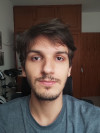
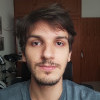
Atualização Prática Introdução HTML e CSS

diff --git a/aulas-praticas/002-introducao-html-css/index.html b/aulas-praticas/002-introducao-html-css/index.html
@@ -3,24 +3,31 @@
     <head>
         <meta charset="UTF-8">
         <title>João Victor Guizi Gerardi</title>
+        <link rel="stylesheet" href="./style.css">
     </head>
     <body>
         <header>
-            <img src="./FotoExameDocuSign.jpeg" alt="Ilustração Rosto João Victor Guizi Gerardi">
-            <h1>João Victor Guizi Gerardi</h1>
+            <img src="./FotoExameDocuSign.jpeg" alt="Ilustração Rosto João Victor Guizi Gerardi" class="photo">
+            <h1 id="title">João Victor Guizi Gerardi</h1>
         </header>
         <section>
             <header>
-                <h2>Posts</h2>
+                <h2 class="subtitle">Posts</h2>
             </header>
-            <article>
-                <h3>Post #1</h3>
-                <img src="./code.jpg" alt="Exemplo de código HTML">
-                <p>
+            <article class="post">
+                <h3 class="post_title">Post #1</h3>
+                <img src="./code.jpg" alt="Exemplo de código HTML" class="post_image">
+                <p class="post_content">
                     Lorem ipsum dolor sit amet, <a href="https://www.linkedin.com/in/joao-victor-guizi-gerardi/" target="_blank">consectetur adipiscing elit.</a> Phasellus imperdiet sit amet nunc et cursus. <a href="mailto:jggerardi@gmail.com">Morbi eu ex aliquam</a>, pellentesque nisi ac, hendrerit dolor. In eget nibh vel leo scelerisque consequat. Donec vestibulum congue faucibus. Quisque lacinia aliquet velit, sed pulvinar mauris eleifend vel. Quisque suscipit libero in ipsum varius pulvinar. Sed vestibulum vestibulum sem. Cras sed tempus tortor. Suspendisse consectetur urna enim, sed aliquet arcu euismod vel. Praesent ex nibh, malesuada a urna non, molestie ornare ligula. Vestibulum ac sem placerat, volutpat orci vel, lacinia erat.
                 </p>
             </article>
         </section>
-        <footer></footer>
+        <footer>
+            <ul>
+                <li> <a href="mailto:jggerardi@gmail.com" target="_blank">jggerardi@gmail.com</a></li>
+                <li> <a href="https://www.linkedin.com/in/joao-victor-guizi-gerardi/" target="_blank">LinkedIn</a> </li>
+                <li> <a href="https://github.com/JoaoVictorGuiziGerardi?tab=overview&from=2021-07-01&to=2021-07-31" target="_blank">GitHub</a> </li>
+            </ul>
+        </footer>
     </body>
 </html>

diff --git a/aulas-praticas/002-introducao-html-css/style.css b/aulas-praticas/002-introducao-html-css/style.css
@@ -1,0 +1,38 @@
+body{
+    background-color:rgba(255, 248, 220, 0.75);
+    font-family: Arial, Helvetica, sans-serif;
+}
+
+#title, .subtitle, .post_title{
+    color:rgba(0, 0, 139, 0.8);
+}
+
+.photo{
+    border: 2.5px solid rgba(0, 0, 139, 0.8);
+    border-radius: 50%;
+}
+
+.post_title{
+    font-size: 16px;
+    font-style: italic;
+    margin: 0;
+    margin-bottom: 15px;
+}
+
+.post_content{
+    margin: 0;
+    margin-bottom: 15px;
+}
+
+.post_image{
+    margin-bottom: 15px;
+    border-radius: 5px;
+}
+
+.post{
+    background-color: white;
+    padding: 15px;
+    border: 2px solid gray;
+    margin-bottom: 15px;
+    border-radius: 10px;
+}
